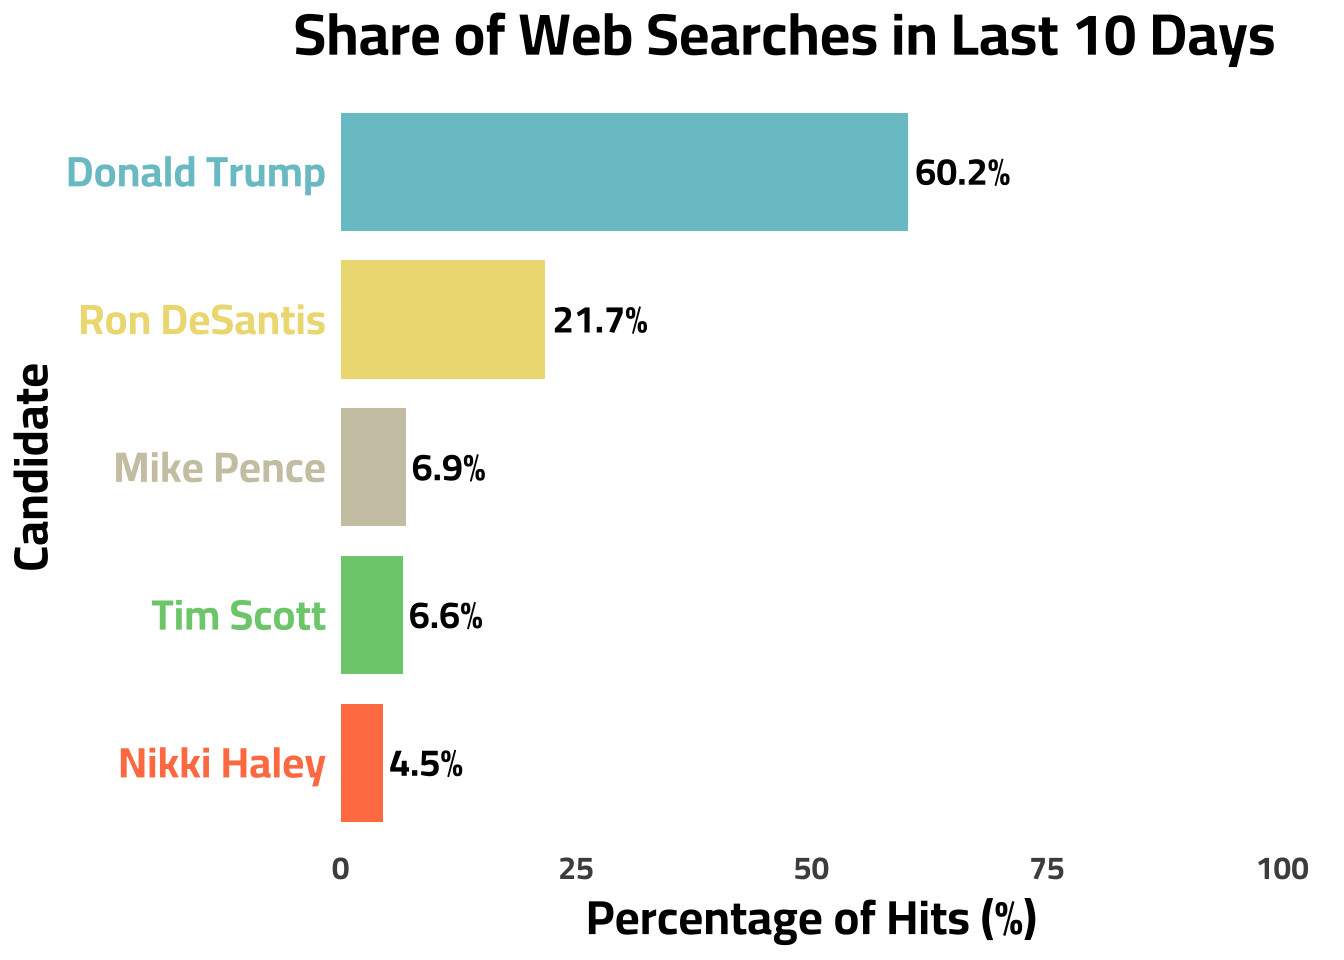
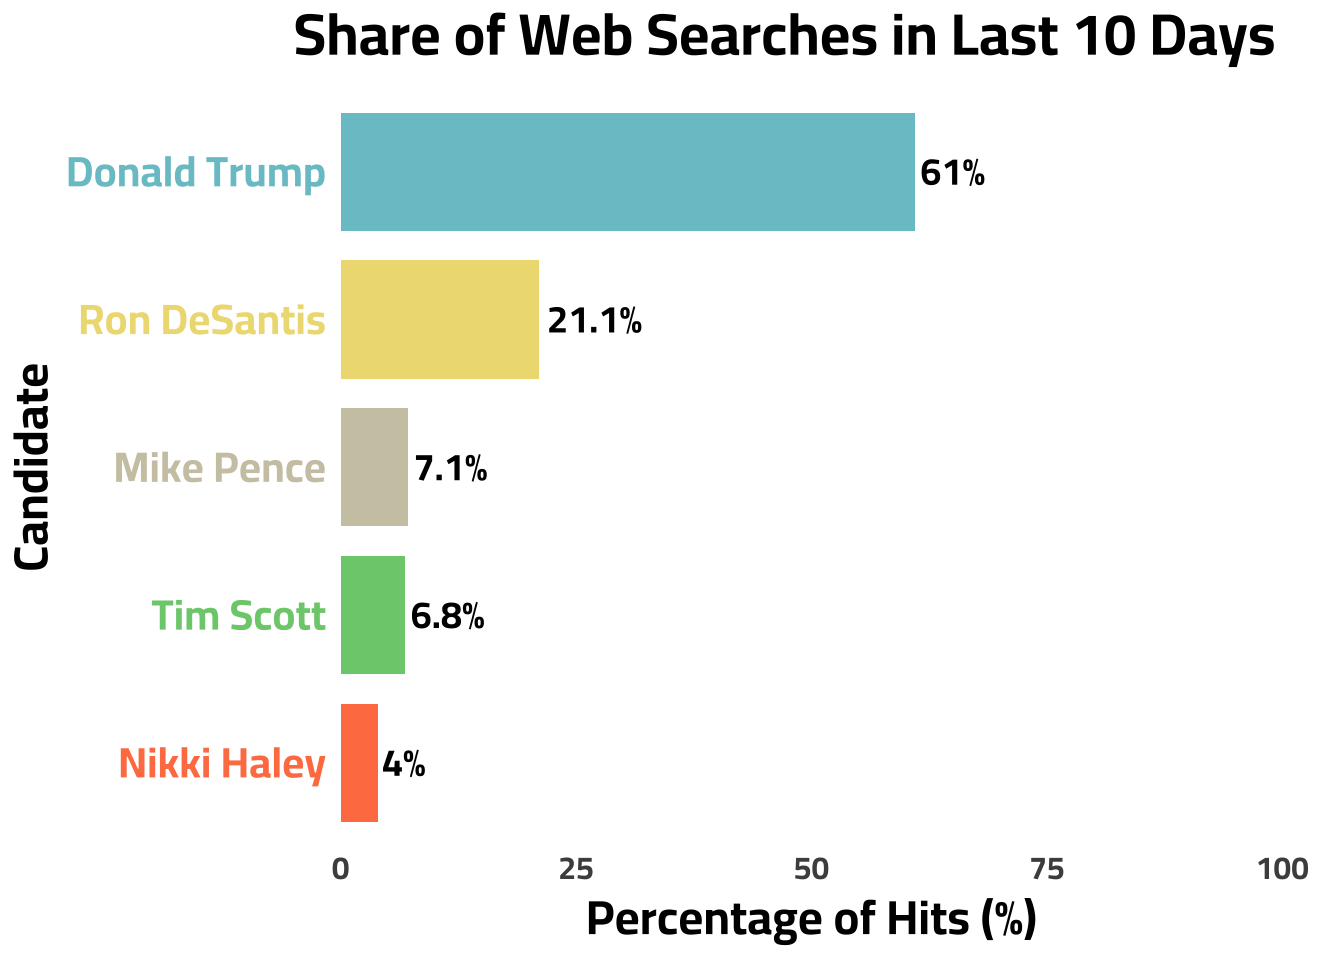
StreamGraph Update

diff --git a/_site/blog.html b/_site/blog.html
@@ -178,7 +178,7 @@ ul.task-list li input[type="checkbox"] {
 
 <div class="quarto-listing quarto-listing-container-default" id="listing-listing">
 <div class="list quarto-listing-default">
-<div class="quarto-post image-right" data-index="0" data-categories="Google Trends,Data Journalism,Politics,CICD" data-listing-date-sort="1689033600000" data-listing-file-modified-sort="1691583963324" data-listing-date-modified-sort="NaN" data-listing-reading-time-sort="7">
+<div class="quarto-post image-right" data-index="0" data-categories="Google Trends,Data Journalism,Politics,CICD" data-listing-date-sort="1689033600000" data-listing-file-modified-sort="1691670379817" data-listing-date-modified-sort="NaN" data-listing-reading-time-sort="7">
 <div class="thumbnail">
 <p><a href="./posts/primary_stream/index.html"> <img src="././about_files/primary_1.png" class="thumbnail-image"> </a></p>
 </div>
@@ -215,7 +215,7 @@ Jul 11, 2023
 </a>
 </div>
 </div>
-<div class="quarto-post image-right" data-index="1" data-categories="Life Hacks,Quarto" data-listing-date-sort="1688601600000" data-listing-file-modified-sort="1691583963325" data-listing-date-modified-sort="NaN" data-listing-reading-time-sort="3">
+<div class="quarto-post image-right" data-index="1" data-categories="Life Hacks,Quarto" data-listing-date-sort="1688601600000" data-listing-file-modified-sort="1691670379818" data-listing-date-modified-sort="NaN" data-listing-reading-time-sort="3">
 <div class="thumbnail">
 <p><a href="./posts/simple_analytics/index.html"> <img src="./about_files/Simple_Analytics.png" class="thumbnail-image"> </a></p>
 </div>
@@ -246,7 +246,7 @@ Jul 6, 2023
 </a>
 </div>
 </div>
-<div class="quarto-post image-right" data-index="2" data-categories="Data Journalism,Google Trends,Politics" data-listing-date-sort="1687824000000" data-listing-file-modified-sort="1691583963322" data-listing-date-modified-sort="NaN" data-listing-reading-time-sort="7">
+<div class="quarto-post image-right" data-index="2" data-categories="Data Journalism,Google Trends,Politics" data-listing-date-sort="1687824000000" data-listing-file-modified-sort="1691670379815" data-listing-date-modified-sort="NaN" data-listing-reading-time-sort="7">
 <div class="thumbnail">
 <p><a href="./posts/google_trends/index.html"> <img src="./about_files/byteman.png" class="thumbnail-image"> </a></p>
 </div>
@@ -280,7 +280,7 @@ Jun 27, 2023
 </a>
 </div>
 </div>
-<div class="quarto-post image-right" data-index="3" data-categories="Data Journalism,LDS,R" data-listing-date-sort="1675728000000" data-listing-file-modified-sort="1691583963323" data-listing-date-modified-sort="NaN" data-listing-reading-time-sort="4">
+<div class="quarto-post image-right" data-index="3" data-categories="Data Journalism,LDS,R" data-listing-date-sort="1675728000000" data-listing-file-modified-sort="1691670379816" data-listing-date-modified-sort="NaN" data-listing-reading-time-sort="4">
 <div class="thumbnail">
 <p><a href="./posts/income_myth/index.html"> <img src="./about_files/LDS_myth_0.png" class="thumbnail-image"> </a></p>
 </div>
@@ -314,7 +314,7 @@ Feb 7, 2023
 </a>
 </div>
 </div>
-<div class="quarto-post image-right" data-index="4" data-categories="Life Hacks,Quarto" data-listing-date-sort="1662076800000" data-listing-file-modified-sort="1691583963325" data-listing-date-modified-sort="NaN" data-listing-reading-time-sort="3">
+<div class="quarto-post image-right" data-index="4" data-categories="Life Hacks,Quarto" data-listing-date-sort="1662076800000" data-listing-file-modified-sort="1691670379817" data-listing-date-modified-sort="NaN" data-listing-reading-time-sort="3">
 <div class="thumbnail">
 <p><a href="./posts/resume/index.html"> <img src="./about_files/resume_2.png" class="thumbnail-image"> </a></p>
 </div>
@@ -345,7 +345,7 @@ Sep 2, 2022
 </a>
 </div>
 </div>
-<div class="quarto-post image-right" data-index="5" data-categories="Survey Research,Data Journalism,LDS" data-listing-date-sort="1646265600000" data-listing-file-modified-sort="1691583963320" data-listing-date-modified-sort="NaN" data-listing-reading-time-sort="7">
+<div class="quarto-post image-right" data-index="5" data-categories="Survey Research,Data Journalism,LDS" data-listing-date-sort="1646265600000" data-listing-file-modified-sort="1691670379814" data-listing-date-modified-sort="NaN" data-listing-reading-time-sort="7">
 <div class="thumbnail">
 <p><a href="./posts/7_facts/index.html"> <img src="https://www.ldstemple.pics/wp-content/uploads/washington-dc-temple-final-sunset-600x600.jpg" class="thumbnail-image"> </a></p>
 </div>
@@ -379,7 +379,7 @@ Mar 3, 2022
 </a>
 </div>
 </div>
-<div class="quarto-post image-right" data-index="6" data-categories="Data Journalism,R" data-listing-date-sort="1618012800000" data-listing-file-modified-sort="1691583963321" data-listing-date-modified-sort="NaN" data-listing-reading-time-sort="4">
+<div class="quarto-post image-right" data-index="6" data-categories="Data Journalism,R" data-listing-date-sort="1618012800000" data-listing-file-modified-sort="1691670379815" data-listing-date-modified-sort="NaN" data-listing-reading-time-sort="4">
 <div class="thumbnail">
 <p><a href="./posts/facebook_data/index.html"> <img src="./about_files/fb_icon" class="thumbnail-image"> </a></p>
 </div>
@@ -410,7 +410,7 @@ Apr 10, 2021
 </a>
 </div>
 </div>
-<div class="quarto-post image-right" data-index="7" data-categories="Data Journalism,R,Survey Research,LDS,Politics" data-listing-date-sort="1607472000000" data-listing-file-modified-sort="1691583963323" data-listing-date-modified-sort="NaN" data-listing-reading-time-sort="8">
+<div class="quarto-post image-right" data-index="7" data-categories="Data Journalism,R,Survey Research,LDS,Politics" data-listing-date-sort="1607472000000" data-listing-file-modified-sort="1691670379816" data-listing-date-modified-sort="NaN" data-listing-reading-time-sort="8">
 <div class="thumbnail">
 <p><a href="./posts/lds_gop/index.html"> <img src="./about_files/iu-3.jpeg" class="thumbnail-image"> </a></p>
 </div>
@@ -450,7 +450,7 @@ Dec 9, 2020
 </a>
 </div>
 </div>
-<div class="quarto-post image-right" data-index="8" data-categories="Data Journalism,R" data-listing-date-sort="1594339200000" data-listing-file-modified-sort="1691583963320" data-listing-date-modified-sort="NaN" data-listing-reading-time-sort="7">
+<div class="quarto-post image-right" data-index="8" data-categories="Data Journalism,R" data-listing-date-sort="1594339200000" data-listing-file-modified-sort="1691670379815" data-listing-date-modified-sort="NaN" data-listing-reading-time-sort="7">
 <div class="thumbnail">
 <p><a href="./posts/cars/index.html"> <img src="https://media.giphy.com/media/rUE9CTmsYMbbOz2MqD/giphy.gif" class="thumbnail-image"> </a></p>
 </div>
@@ -481,7 +481,7 @@ Jul 10, 2020
 </a>
 </div>
 </div>
-<div class="quarto-post image-right" data-index="9" data-categories="Data Journalism,R,Shiny" data-listing-date-sort="1591660800000" data-listing-file-modified-sort="1691583963324" data-listing-date-modified-sort="NaN" data-listing-reading-time-sort="7">
+<div class="quarto-post image-right" data-index="9" data-categories="Data Journalism,R,Shiny" data-listing-date-sort="1591660800000" data-listing-file-modified-sort="1691670379817" data-listing-date-modified-sort="NaN" data-listing-reading-time-sort="7">
 <div class="thumbnail">
 <p><a href="./posts/mobility/index.html"> <img src="./about_files/iu-2.jpeg" class="thumbnail-image"> </a></p>
 </div>

diff --git a/_site/projects.html b/_site/projects.html
@@ -178,7 +178,7 @@ ul.task-list li input[type="checkbox"] {
 
 <div class="quarto-listing quarto-listing-container-grid" id="listing-listing">
 <div class="list grid quarto-listing-cols-3">
-<div class="g-col-1" data-index="0" data-categories="Capstone,Python,Stats" data-listing-date-sort="1682899200000" data-listing-file-modified-sort="1691583963341" data-listing-date-modified-sort="NaN" data-listing-reading-time-sort="4">
+<div class="g-col-1" data-index="0" data-categories="Capstone,Python,Stats" data-listing-date-sort="1682899200000" data-listing-file-modified-sort="1691670379834" data-listing-date-modified-sort="NaN" data-listing-reading-time-sort="4">
 <a href="./projects/internet_archive/index.html" class="quarto-grid-link">
 <div class="quarto-grid-item card h-100 card-left">
 <p class="card-img-top">
@@ -211,7 +211,7 @@ May 1, 2023
 </div>
 </a>
 </div>
-<div class="g-col-1" data-index="1" data-categories="Python,Stats,Dataviz" data-listing-date-sort="1660867200000" data-listing-file-modified-sort="1691583963338" data-listing-date-modified-sort="NaN" data-listing-reading-time-sort="10">
+<div class="g-col-1" data-index="1" data-categories="Python,Stats,Dataviz" data-listing-date-sort="1660867200000" data-listing-file-modified-sort="1691670379829" data-listing-date-modified-sort="NaN" data-listing-reading-time-sort="10">
 <a href="./projects/bayesian_county/index.html" class="quarto-grid-link">
 <div class="quarto-grid-item card h-100 card-left">
 <p class="card-img-top">
@@ -244,7 +244,7 @@ Aug 19, 2022
 </div>
 </a>
 </div>
-<div class="g-col-1" data-index="2" data-categories="CI/CD,R,Dataviz" data-listing-date-sort="1636329600000" data-listing-file-modified-sort="1691583963339" data-listing-date-modified-sort="NaN" data-listing-reading-time-sort="3">
+<div class="g-col-1" data-index="2" data-categories="CI/CD,R,Dataviz" data-listing-date-sort="1636329600000" data-listing-file-modified-sort="1691670379829" data-listing-date-modified-sort="NaN" data-listing-reading-time-sort="3">
 <a href="./projects/covid_update/index.html" class="quarto-grid-link">
 <div class="quarto-grid-item card h-100 card-left">
 <p class="card-img-top">
@@ -277,7 +277,7 @@ Nov 8, 2021
 </div>
 </a>
 </div>
-<div class="g-col-1" data-index="3" data-categories="Dataviz,Stats,R" data-listing-date-sort="1600387200000" data-listing-file-modified-sort="1691583963340" data-listing-date-modified-sort="NaN" data-listing-reading-time-sort="2">
+<div class="g-col-1" data-index="3" data-categories="Dataviz,Stats,R" data-listing-date-sort="1600387200000" data-listing-file-modified-sort="1691670379832" data-listing-date-modified-sort="NaN" data-listing-reading-time-sort="2">
 <a href="./projects/election_model/index.html" class="quarto-grid-link">
 <div class="quarto-grid-item card h-100 card-left">
 <p class="card-img-top">
@@ -310,7 +310,7 @@ Sep 18, 2020
 </div>
 </a>
 </div>
-<div class="g-col-1" data-index="4" data-categories="R,Shiny" data-listing-date-sort="1596153600000" data-listing-file-modified-sort="1691583963342" data-listing-date-modified-sort="NaN" data-listing-reading-time-sort="2">
+<div class="g-col-1" data-index="4" data-categories="R,Shiny" data-listing-date-sort="1596153600000" data-listing-file-modified-sort="1691670379834" data-listing-date-modified-sort="NaN" data-listing-reading-time-sort="2">
 <a href="./projects/peanuts/index.html" class="quarto-grid-link">
 <div class="quarto-grid-item card h-100 card-left">
 <p class="card-img-top">
@@ -340,7 +340,7 @@ Jul 31, 2020
 </div>
 </a>
 </div>
-<div class="g-col-1" data-index="5" data-categories="Capstone,R,Stats" data-listing-date-sort="1587772800000" data-listing-file-modified-sort="1691583963344" data-listing-date-modified-sort="NaN" data-listing-reading-time-sort="6">
+<div class="g-col-1" data-index="5" data-categories="Capstone,R,Stats" data-listing-date-sort="1587772800000" data-listing-file-modified-sort="1691670379837" data-listing-date-modified-sort="NaN" data-listing-reading-time-sort="6">
 <a href="./projects/star_wars_capstone/index.html" class="quarto-grid-link">
 <div class="quarto-grid-item card h-100 card-left">
 <p class="card-img-top">

diff --git a/_site/posts/primary_stream/index.html b/_site/posts/primary_stream/index.html
@@ -181,7 +181,7 @@ Note
 </div>
 </div>
 <div class="callout-body-container callout-body">
-<p>This graph is updated on a daily basis to provide continuous context to the GOP Primary Election. This graph was last updated: 12:26:09 on 09 Aug 2023</p>
+<p>This graph is updated on a daily basis to provide continuous context to the GOP Primary Election. This graph was last updated: 12:26:26 on 10 Aug 2023</p>
 </div>
 </div>
 <div class="cell">
@@ -234,7 +234,7 @@ Note
 </div>
 </div>
 <div class="callout-body-container callout-body">
-<p>This graph is updated on a daily basis to provide continuous context to the GOP Primary Election. This graph was last updated: 12:26:16 on 09 Aug 2023</p>
+<p>This graph is updated on a daily basis to provide continuous context to the GOP Primary Election. This graph was last updated: 12:26:34 on 10 Aug 2023</p>
 </div>
 </div>
 <p>This graph is provided to give a barometer reading of a candidates <em>recent</em> popularity/news coverage.</p>
